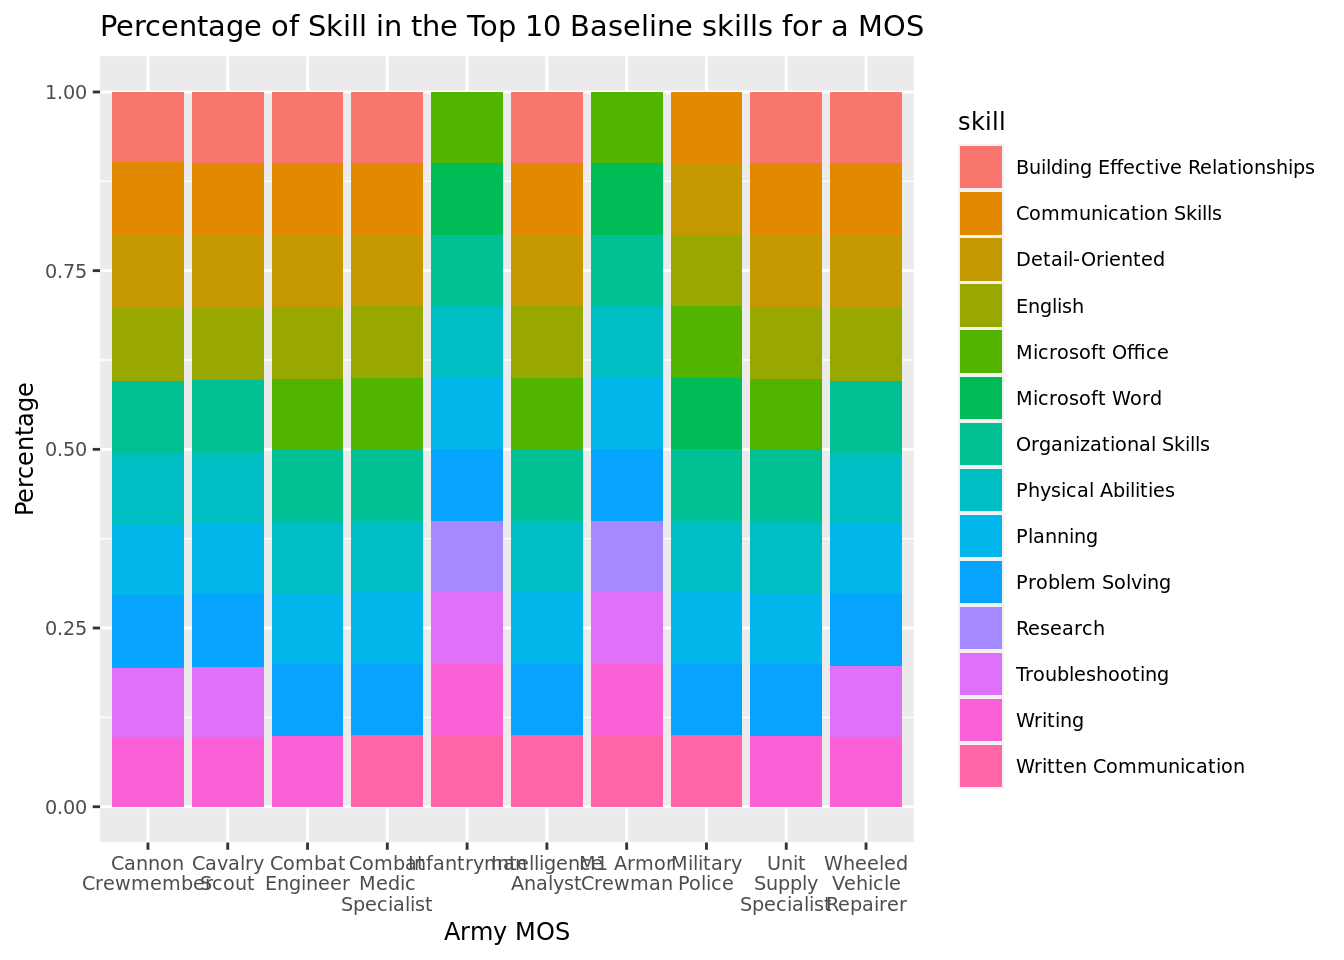
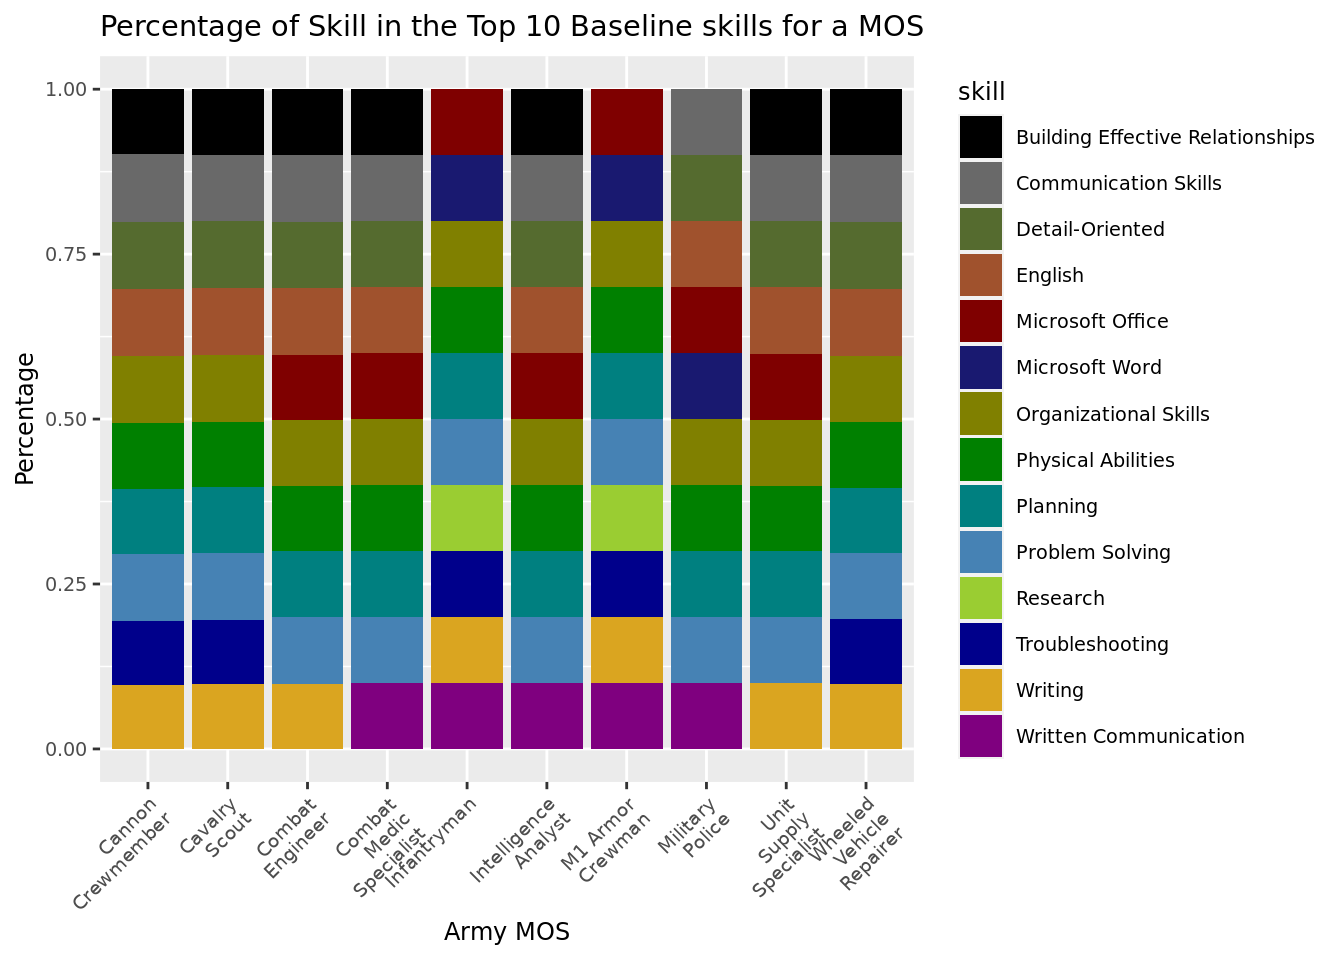
added networks, fixed colors, tilt labels

diff --git a/docs/baseline.html b/docs/baseline.html
@@ -19,16 +19,29 @@
 <script src="site_libs/bootstrap-3.3.5/js/bootstrap.min.js"></script>
 <script src="site_libs/bootstrap-3.3.5/shim/html5shiv.min.js"></script>
 <script src="site_libs/bootstrap-3.3.5/shim/respond.min.js"></script>
+<style>h1 {font-size: 34px;}
+       h1.title {font-size: 38px;}
+       h2 {font-size: 30px;}
+       h3 {font-size: 24px;}
+       h4 {font-size: 18px;}
+       h5 {font-size: 16px;}
+       h6 {font-size: 12px;}
+       code {color: inherit; background-color: rgba(0, 0, 0, 0.04);}
+       pre:not([class]) { background-color: white }</style>
 <script src="site_libs/navigation-1.1/tabsets.js"></script>
 <link href="site_libs/highlightjs-9.12.0/default.css" rel="stylesheet" />
 <script src="site_libs/highlightjs-9.12.0/highlight.js"></script>
 
-<style type="text/css">code{white-space: pre;}</style>
 <style type="text/css">
-  pre:not([class]) {
-    background-color: white;
-  }
-</style>
+  code{white-space: pre-wrap;}
+  span.smallcaps{font-variant: small-caps;}
+  span.underline{text-decoration: underline;}
+  div.column{display: inline-block; vertical-align: top; width: 50%;}
+  div.hanging-indent{margin-left: 1.5em; text-indent: -1.5em;}
+  ul.task-list{list-style: none;}
+    </style>
+
+<style type="text/css">code{white-space: pre;}</style>
 <script type="text/javascript">
 if (window.hljs) {
   hljs.configure({languages: []});
@@ -41,32 +54,7 @@ if (window.hljs) {
 
 
 
-<style type="text/css">
-h1 {
-  font-size: 34px;
-}
-h1.title {
-  font-size: 38px;
-}
-h2 {
-  font-size: 30px;
-}
-h3 {
-  font-size: 24px;
-}
-h4 {
-  font-size: 18px;
-}
-h5 {
-  font-size: 16px;
-}
-h6 {
-  font-size: 12px;
-}
-.table th:not([align]) {
-  text-align: left;
-}
-</style>
+
 
 
 
@@ -76,10 +64,6 @@ h6 {
   max-width: 940px;
   margin-left: auto;
   margin-right: auto;
-}
-code {
-  color: inherit;
-  background-color: rgba(0, 0, 0, 0.04);
 }
 img {
   max-width:100%;
@@ -96,40 +80,13 @@ button.code-folding-btn:focus {
 summary {
   display: list-item;
 }
+pre code {
+  padding: 0;
+}
 </style>
 
 
 <style type="text/css">
-/* padding for bootstrap navbar */
-body {
-  padding-top: 51px;
-  padding-bottom: 40px;
-}
-/* offset scroll position for anchor links (for fixed navbar)  */
-.section h1 {
-  padding-top: 56px;
-  margin-top: -56px;
-}
-.section h2 {
-  padding-top: 56px;
-  margin-top: -56px;
-}
-.section h3 {
-  padding-top: 56px;
-  margin-top: -56px;
-}
-.section h4 {
-  padding-top: 56px;
-  margin-top: -56px;
-}
-.section h5 {
-  padding-top: 56px;
-  margin-top: -56px;
-}
-.section h6 {
-  padding-top: 56px;
-  margin-top: -56px;
-}
 .dropdown-submenu {
   position: relative;
 }
@@ -157,7 +114,7 @@ body {
   margin-right: -10px;
 }
 .dropdown-submenu:hover>a:after {
-  border-left-color: #ffffff;
+  border-left-color: #adb5bd;
 }
 .dropdown-submenu.pull-left {
   float: none;
@@ -169,7 +126,7 @@ body {
 }
 </style>
 
-<script>
+<script type="text/javascript">
 // manage active state of menu based on current page
 $(document).ready(function () {
   // active menu anchor
@@ -180,10 +137,23 @@ $(document).ready(function () {
   var menuAnchor = $('a[href="' + href + '"]');
 
   // mark it active
-  menuAnchor.parent().addClass('active');
+  menuAnchor.tab('show');
 
   // if it's got a parent navbar menu mark it active as well
   menuAnchor.closest('li.dropdown').addClass('active');
+
+  // Navbar adjustments
+  var navHeight = $(".navbar").first().height() + 15;
+  var style = document.createElement('style');
+  var pt = "padding-top: " + navHeight + "px; ";
+  var mt = "margin-top: -" + navHeight + "px; ";
+  var css = "";
+  // offset scroll position for anchor links (for fixed navbar)
+  for (var i = 1; i <= 6; i++) {
+    css += ".section h" + i + "{ " + pt + mt + "}\n";
+  }
+  style.innerHTML = "body {" + pt + "padding-bottom: 40px; }\n" + css;
+  document.head.appendChild(style);
 });
 </script>
 
@@ -195,7 +165,6 @@ $(document).ready(function () {
   max-height: 500px;
   min-height: 44px;
   overflow-y: auto;
-  background: white;
   border: 1px solid #ddd;
   border-radius: 4px;
 }
@@ -312,7 +281,7 @@ $(document).ready(function () {
   </div><!--/.container -->
 </div><!--/.navbar -->
 
-<div class="fluid-row" id="header">
+<div id="header">
 
 
 
@@ -321,8 +290,10 @@ $(document).ready(function () {
 </div>
 
 
+<p>The first piece of our analysis begins with learning about baseline skills. This was a definition from Burning Glass and includes soft and more generalized skills for the workplace. These skills are seen across most SOC and MOS codes because of how general they are. However, these are highly employable skills and therefore important to Veterans for their resumes.</p>
 <div id="exploratory-data-analysis" class="section level3">
 <h3>Exploratory Data Analysis</h3>
+<p>Within baseline skills, Army personnel have opportunities to fill an average of 185,900 jobs within each SOC code. They have an opportunty to earn an average of 51,000 dollars in these same jobs. This is an average across 170 jobs, therefore there is room for upwards of 31 million veterans to earn jobs in these fields, if they only served veteran groups.</p>
 <table style="text-align:center">
 <tr>
 <td colspan="8" style="border-bottom: 1px solid black">
@@ -360,7 +331,7 @@ Max
 </tr>
 <tr>
 <td style="text-align:left">
-tot_emp
+Employment
 </td>
 <td>
 170
@@ -386,7 +357,7 @@ tot_emp
 </tr>
 <tr>
 <td style="text-align:left">
-a_mean
+Salary
 </td>
 <td>
 170
@@ -417,17 +388,22 @@ a_mean
 </table>
 <div id="skill-frequency" class="section level5">
 <h5>Skill Frequency</h5>
+<p>The most common baseline skills acrued in the Army are highly employable and salient skills. Thse include communication, organization, detail-orientation, problem solving, and excel. These skills are common to the Army and civilian jobs and should be included on resumes by veterans to highlight how translatable their skills are from the Army to civilian life.</p>
 <p><img src="baseline_files/figure-html/Baseline%20Skill%20Frequency-1.png" width="672" /></p>
 </div>
 <div id="unique-skills" class="section level4">
 <h4>Unique Skills</h4>
-<p>Unique: skills that do not occur in all 11 MOS</p>
-<p>Most commonly observed: knowledge of languages (Turkish, Urdu, Greek, Thai) <img src="baseline_files/figure-html/unnamed-chunk-1-1.png" width="672" /></p>
+<p>We define unique skills as those not present in all 10 MOS's. Across thesse 10, the most unique are types of languages learned. Tis signals that language acquisititon is the most unique of skill traits to come out of Army jobs. This inherently mamkes sense. In the Army you'll learn lots of similar baseline skills like communication, physical skills, and discipline, but langauges are more tuned to which specific job you may do.</p>
+<p><img src="baseline_files/figure-html/unnamed-chunk-2-1.png" width="672" /></p>
 <p><img src="baseline_files/figure-html/Part%202-1.png" width="672" /></p>
 </div>
 </div>
 <div id="networks" class="section level3">
 <h3>Networks</h3>
+<div class="figure">
+<img src="./src/web/ari_pages/images/baseline.png" alt="Alt text" />
+<p class="caption">Alt text</p>
+</div>
 </div>
 
 
@@ -439,7 +415,7 @@ a_mean
 
 // add bootstrap table styles to pandoc tables
 function bootstrapStylePandocTables() {
-  $('tr.header').parent('thead').parent('table').addClass('table table-condensed');
+  $('tr.odd').parent('tbody').parent('table').addClass('table table-condensed');
 }
 $(document).ready(function () {
   bootstrapStylePandocTables();
@@ -457,7 +433,7 @@ $(document).ready(function () {
 
 $(document).ready(function () {
   $('.tabset-dropdown > .nav-tabs > li').click(function () {
-    $(this).parent().toggleClass('nav-tabs-open')
+    $(this).parent().toggleClass('nav-tabs-open');
   });
 });
 </script>

diff --git a/docs/all_skill.html b/docs/all_skill.html
@@ -386,19 +386,23 @@ a_mean
 </table>
 <div id="all-skills" class="section level4">
 <h4>All Skills</h4>
-<p><img src="all_skill_files/figure-html/All%20Skills%20Frequency-1.png" width="672" /> Many of the top skills are also the top baseline skills (communication skills, physical ability, organizational skills, detail-oriented, English), indicating the importance of many of these baseline skills.</p>
+<p><img src="all_skill_files/figure-html/All%20Skills%20Frequency-1.png" width="672" /></p>
+<p>Many of the top skills are also the top baseline skills (communication skills, physical ability, organizational skills, detail-oriented, English), indicating the importance of many of these baseline skills.</p>
 </div>
 <div id="specialized-skills" class="section level4">
 <h4>Specialized Skills</h4>
 <p><img src="all_skill_files/figure-html/Specialized%20Skill%20Frequency-1.png" width="672" /></p>
 <p><img src="all_skill_files/figure-html/unnamed-chunk-2-1.png" width="672" /></p>
-<p><img src="all_skill_files/figure-html/unnamed-chunk-3-1.png" width="672" /> The top 5 specialized skills for each MOS are approximately the same once weighted by employment.</p>
+<p><img src="all_skill_files/figure-html/unnamed-chunk-3-1.png" width="672" /></p>
+<p>The top 5 specialized skills for each MOS are approximately the same once weighted by employment.</p>
 </div>
 <div id="software-skills" class="section level4">
 <h4>Software Skills</h4>
-<p><img src="all_skill_files/figure-html/Software%20Skill%20Frequency-1.png" width="672" /> SAP is a business software, and combined with the presence of Salesforce and ERP, indicates a demand for software centered around commerce.</p>
+<p><img src="all_skill_files/figure-html/Software%20Skill%20Frequency-1.png" width="672" /></p>
+<p>SAP is a business software, and combined with the presence of Salesforce and ERP, indicates a demand for software centered around commerce.</p>
 <p><img src="all_skill_files/figure-html/unnamed-chunk-4-1.png" width="672" /></p>
-<p><img src="all_skill_files/figure-html/unnamed-chunk-5-1.png" width="672" /> The top 5 software skills are also the same for each MOS, and reflect the top software skills overall.</p>
+<p><img src="all_skill_files/figure-html/unnamed-chunk-5-1.png" width="672" /></p>
+<p>The top 5 software skills are also the same for each MOS, and reflect the top software skills overall.</p>
 </div>
 <div id="unique-skills" class="section level4">
 <h4>Unique Skills</h4>
@@ -413,7 +417,8 @@ a_mean
 </div>
 <div id="employment-by-mos-2" class="section level1">
 <h1>Employment by MOS (2)</h1>
-<p><img src="all_skill_files/figure-html/unnamed-chunk-9-1.png" width="672" /> Based on BLS data on projected employment for jobs, the average predicted employment for each MOS was taken based on their skills. The highest average employment predicted was for combat medic specialists, intelligence analysts and unit supply specialists while the lowest were for M1 Armor Crewmen and Infantrymen.</p>
+<p><img src="all_skill_files/figure-html/unnamed-chunk-9-1.png" width="672" /></p>
+<p>Based on BLS data on projected employment for jobs, the average predicted employment for each MOS was taken based on their skills. The highest average employment predicted was for combat medic specialists, intelligence analysts and unit supply specialists while the lowest were for M1 Armor Crewmen and Infantrymen.</p>
 </div>
 <div id="salary-by-mos-1" class="section level1">
 <h1>Salary by MOS (1)</h1>
@@ -434,7 +439,18 @@ a_mean
 </div>
 <div id="software-skills-top-10-percentages" class="section level1">
 <h1>Software Skills Top 10 Percentages</h1>
-<p><img src="all_skill_files/figure-html/unnamed-chunk-14-1.png" width="672" /> ### Networks</p>
+<p><img src="all_skill_files/figure-html/unnamed-chunk-14-1.png" width="672" /></p>
+<div id="networks" class="section level3">
+<h3>Networks</h3>
+<div class="figure">
+<img src="./src/web/ari_pages/images/all_skills.png" alt="Alt text" />
+<p class="caption">Alt text</p>
+</div>
+<div class="figure">
+<img src="./src/web/ari_pages/images/mos_soc.png" alt="Alt text" />
+<p class="caption">Alt text</p>
+</div>
+</div>
 </div>
 
 
